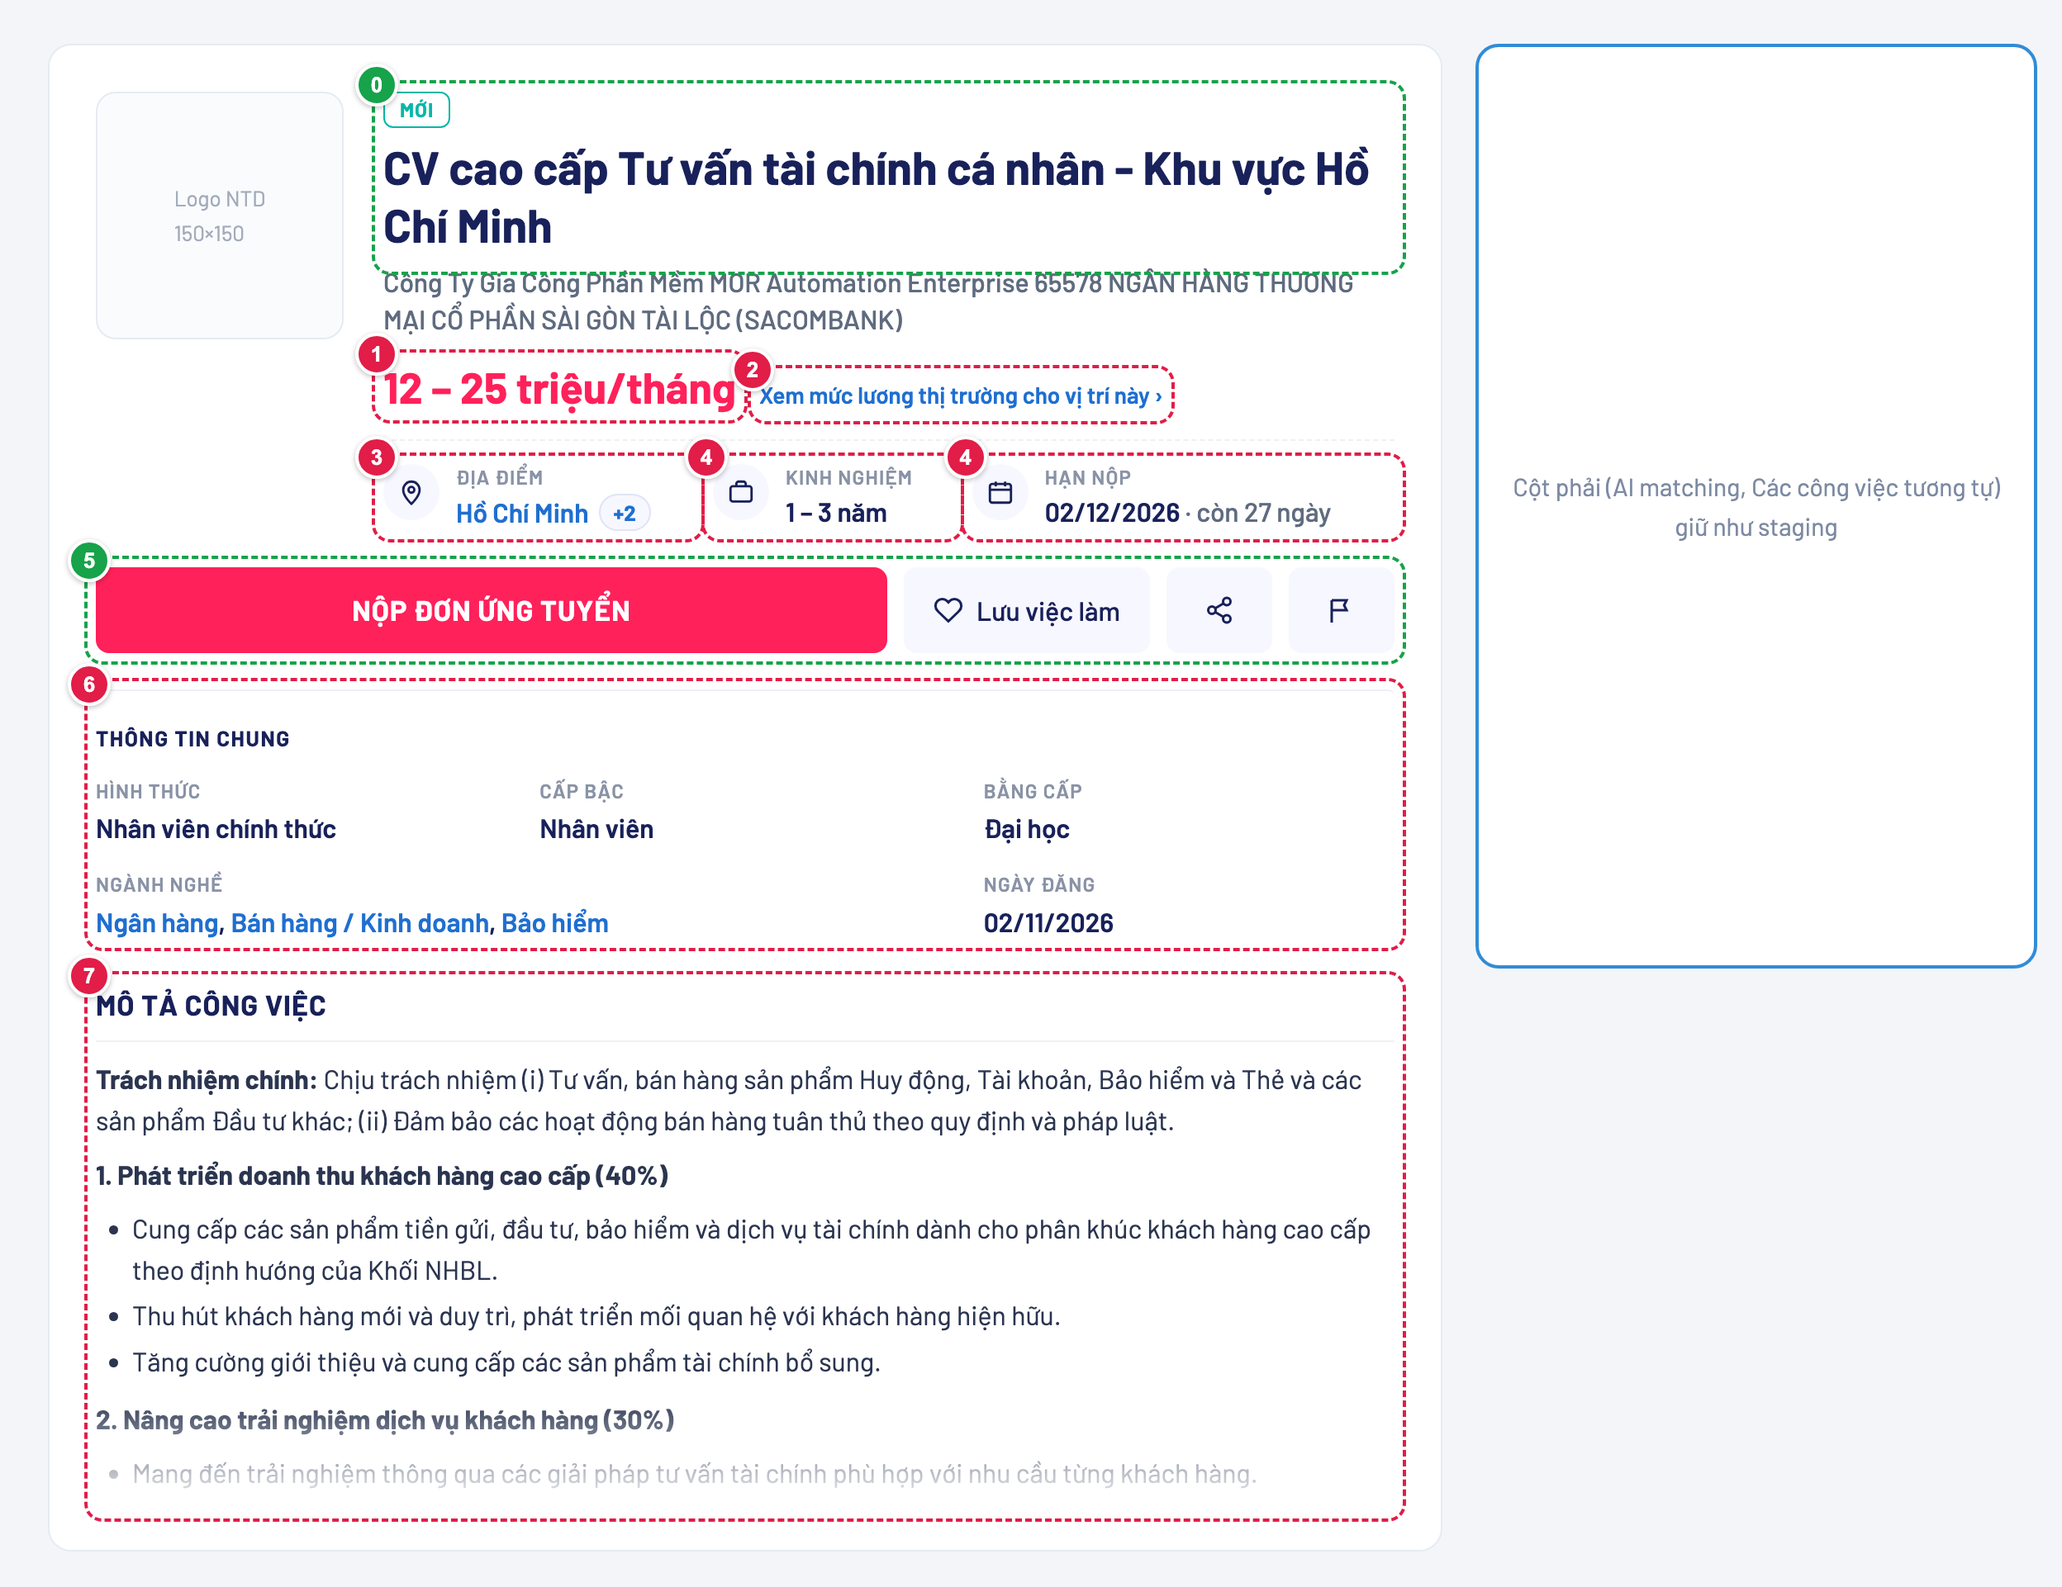
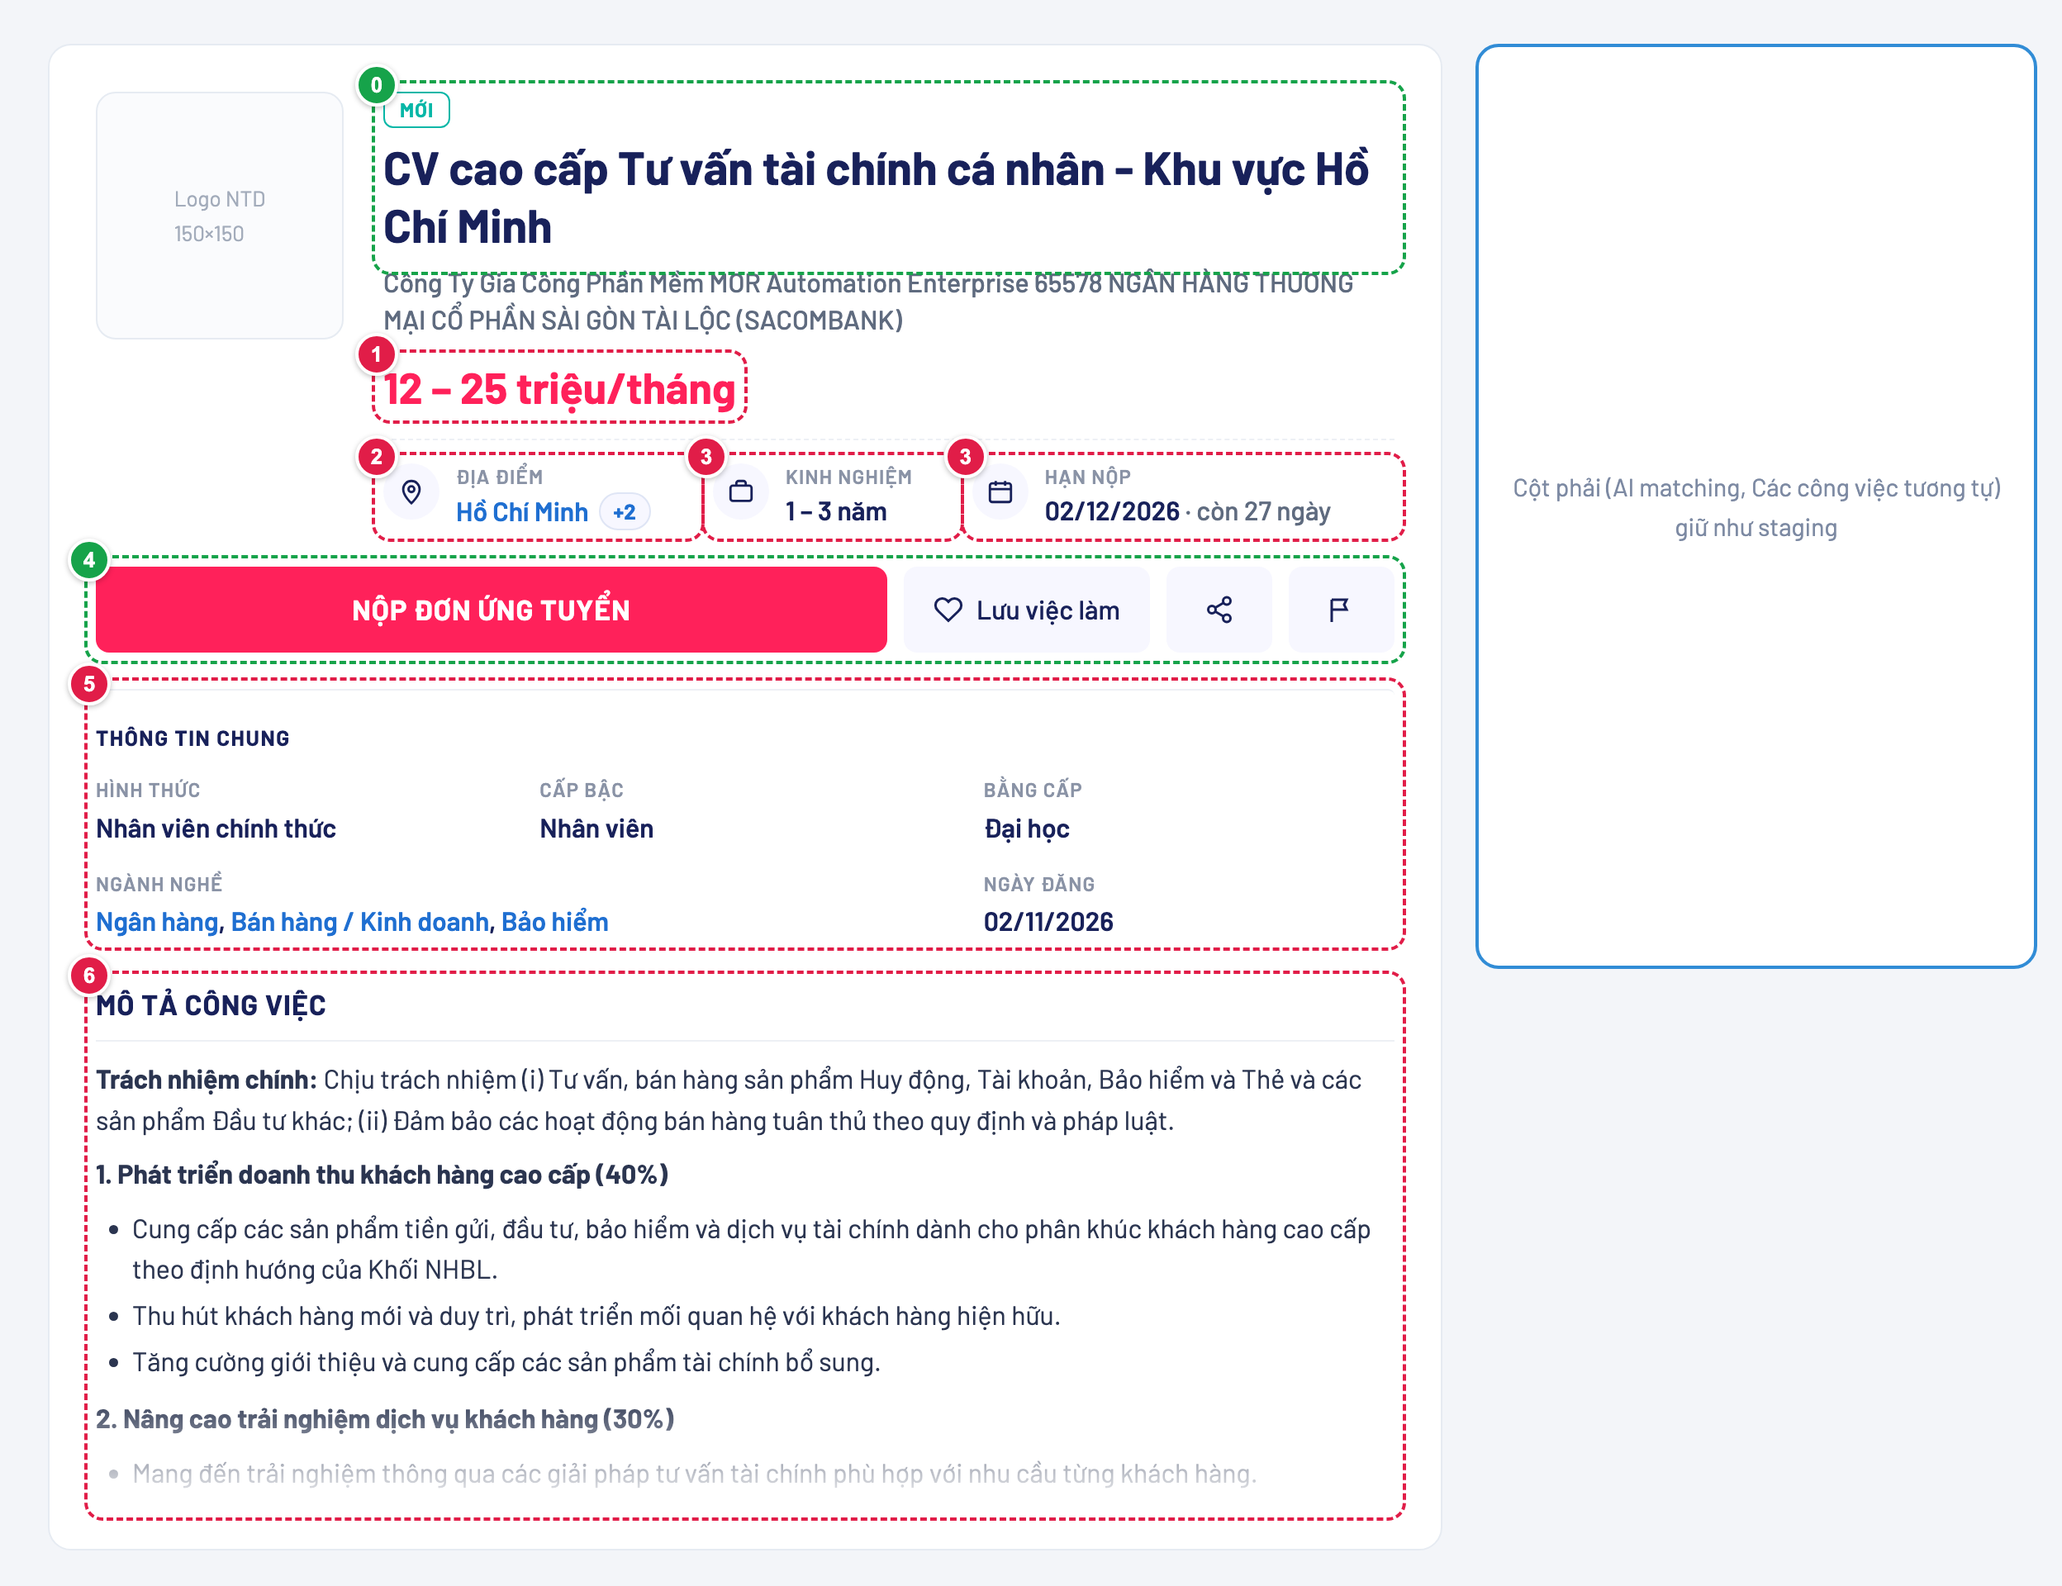
Bỏ link «Xem mức lương thị trường» (v5)
Đánh số lại chú thích 0–6, chụp lại 3 ảnh.

diff --git a/index.html b/index.html
@@ -44,8 +44,6 @@ figcaption{font-size:13px;color:var(--doc-muted);margin-top:6px}
 .salary-line{display:flex;flex-wrap:wrap;align-items:baseline;gap:4px 14px;margin:14px 0 0}
 .job-salary{margin:0;font-size:26px;font-weight:700;color:var(--pink);line-height:1.2}
 .job-salary.neg{color:var(--navy)}
-.job-salary-ref{font-size:14px;font-weight:600;color:var(--link)!important}
-.job-salary-ref:hover{text-decoration:underline!important}
 .job-meta-list{list-style:none;margin:16px 0 0;padding:14px 0 0;border-top:1px dashed var(--line);display:grid;grid-template-columns:1.1fr .85fr 1.5fr;gap:12px}
 .job-meta-list li{display:flex;gap:10px;align-items:flex-start;min-width:0}
 .ico{flex:0 0 34px;height:34px;border-radius:50%;background:var(--blue-bg);display:flex;align-items:center;justify-content:center;color:var(--navy)}
@@ -114,7 +112,6 @@ dl.info-grid dd a{color:var(--link)!important}
 .phone h1.title{font-size:21px;margin:10px 0 0}
 .phone .job-salary{font-size:23px}
 .phone .salary-line{margin-top:8px;gap:2px 10px}
-.phone .job-salary-ref{font-size:13px}
 .phone .job-meta-list{grid-template-columns:1fr;gap:0;margin-top:12px;padding-top:4px}
 .phone .job-meta-list li{justify-content:space-between;align-items:center;padding:8px 0;border-bottom:1px solid var(--line)}
 .phone .job-meta-list li .ico{display:none}
@@ -185,19 +182,18 @@ footer{margin-top:40px;padding-top:14px;border-top:1px solid var(--doc-line);fon
 
         <div class="salary-line">
           <p class="job-salary ann"><span class="n">1</span>12 – 25 triệu/tháng</p>
-          <a class="job-salary-ref ann" href="#"><span class="n">2</span>Xem mức lương thị trường cho vị trí này ›</a>
         </div>
 
         <ul class="job-meta-list">
-          <li class="ann"><span class="n">3</span>
+          <li class="ann"><span class="n">2</span>
             <span class="ico" aria-hidden="true"><svg viewBox="0 0 24 24" fill="none" stroke="currentColor" stroke-width="2"><path d="M12 22s7-6.2 7-12a7 7 0 1 0-14 0c0 5.8 7 12 7 12z"/><circle cx="12" cy="10" r="2.5"/></svg></span>
             <span><span class="ml">Địa điểm</span><span class="mv"><a href="#">Hồ Chí Minh</a><span class="more">+2</span></span></span>
           </li>
-          <li class="ann"><span class="n">4</span>
+          <li class="ann"><span class="n">3</span>
             <span class="ico" aria-hidden="true"><svg viewBox="0 0 24 24" fill="none" stroke="currentColor" stroke-width="2"><rect x="3" y="7" width="18" height="13" rx="2"/><path d="M8 7V5a2 2 0 0 1 2-2h4a2 2 0 0 1 2 2v2"/></svg></span>
             <span><span class="ml">Kinh nghiệm</span><span class="mv">1 – 3 năm</span></span>
           </li>
-          <li class="ann"><span class="n">4</span>
+          <li class="ann"><span class="n">3</span>
             <span class="ico" aria-hidden="true"><svg viewBox="0 0 24 24" fill="none" stroke="currentColor" stroke-width="2"><rect x="3" y="5" width="18" height="16" rx="2"/><path d="M16 3v4M8 3v4M3 10h18"/></svg></span>
             <span><span class="ml">Hạn nộp</span><span class="mv"><time datetime="2026-12-02">02/12/2026</time> <span class="left">· còn 27 ngày</span></span></span>
           </li>
@@ -205,14 +201,14 @@ footer{margin-top:40px;padding-top:14px;border-top:1px solid var(--doc-line);fon
       </div>
     </div>
 
-    <div class="job-actions-row ann keep"><span class="n">5</span>
+    <div class="job-actions-row ann keep"><span class="n">4</span>
       <a class="apply-now-btn" href="#">Nộp đơn ứng tuyển</a>
       <span class="tool"><svg viewBox="0 0 24 24" fill="none" stroke="currentColor" stroke-width="2"><path d="M20.8 4.6a5.5 5.5 0 0 0-7.8 0L12 5.7l-1-1.1a5.5 5.5 0 0 0-7.8 7.8l1 1.1L12 21l7.8-7.5 1-1.1a5.5 5.5 0 0 0 0-7.8z"/></svg>Lưu việc làm</span>
       <span class="tool sq" aria-label="Chia sẻ"><svg viewBox="0 0 24 24" fill="none" stroke="currentColor" stroke-width="2"><circle cx="18" cy="5" r="3"/><circle cx="6" cy="12" r="3"/><circle cx="18" cy="19" r="3"/><path d="M8.6 13.5l6.8 4M15.4 6.5l-6.8 4"/></svg></span>
       <span class="tool sq" aria-label="Báo cáo tin"><svg viewBox="0 0 24 24" fill="none" stroke="currentColor" stroke-width="2"><path d="M4 22V4M4 4h12l-2 4 2 4H4"/></svg></span>
     </div>
 
-    <div class="info ann"><span class="n">6</span>
+    <div class="info ann"><span class="n">5</span>
       <p class="info-title">Thông tin chung</p>
       <dl class="info-grid">
         <div><dt>Hình thức</dt><dd>Nhân viên chính thức</dd></div>
@@ -223,7 +219,7 @@ footer{margin-top:40px;padding-top:14px;border-top:1px solid var(--doc-line);fon
       </dl>
     </div>
 
-    <section class="desc ann"><span class="n">7</span>
+    <section class="desc ann"><span class="n">6</span>
       <h2>Mô tả công việc</h2>
       <div class="fade">
         <p><b>Trách nhiệm chính:</b> Chịu trách nhiệm (i) Tư vấn, bán hàng sản phẩm Huy động, Tài khoản, Bảo hiểm và Thẻ và các sản phẩm Đầu tư khác; (ii) Đảm bảo các hoạt động bán hàng tuân thủ theo quy định và pháp luật.</p>
@@ -245,12 +241,11 @@ footer{margin-top:40px;padding-top:14px;border-top:1px solid var(--doc-line);fon
 <ul class="notes">
   <li><span class="d k">0</span><span><b>Giữ:</b> nhãn «Mới» nằm ngoài thẻ <code>&lt;h1&gt;</code>; H1 là chữ lớn nhất khối (28px/700).</span></li>
   <li><span class="d">1</span><span><b>Lương</b> tách khỏi tag, thành dòng riêng 26px/700 màu <code>#ff215a</code>, không nền chip, bỏ chữ «Lương:», thêm kỳ trả «/tháng».</span></li>
-  <li><span class="d">2</span><span><b>Link lương thị trường</b> cùng dòng với lương, trỏ trang VietnamSalary của chức danh.</span></li>
-  <li><span class="d">3</span><span><b>Địa điểm</b> ghi tỉnh/thành, mỗi tỉnh là link sang trang việc làm của tỉnh. Hiện 1 tỉnh + «+2», bấm mở danh sách (mục 3).</span></li>
-  <li><span class="d">4</span><span><b>Kinh nghiệm và Hạn nộp</b> chuyển từ lưới dưới nút lên cạnh Địa điểm. Hạn nộp thêm «còn N ngày».</span></li>
-  <li><span class="d k">5</span><span><b>Giữ</b> hàng nút như staging. Hai nút chỉ có icon thêm <code>aria-label</code> «Chia sẻ», «Báo cáo tin».</span></li>
-  <li><span class="d">6</span><span><b>Lưới «Thông tin chung»</b>: còn Hình thức, Cấp bậc, Bằng cấp, Ngành nghề, Ngày đăng. Ngành nghề dùng màu link. «Ngày cập nhật» đổi thành «Ngày đăng» (khớp <code>datePosted</code>).</span></li>
-  <li><span class="d">7</span><span><b>Mô tả công việc</b> giữ xuống dòng, đánh số, gạch đầu dòng như nhà tuyển dụng nhập.</span></li>
+  <li><span class="d">2</span><span><b>Địa điểm</b> ghi tỉnh/thành, mỗi tỉnh là link sang trang việc làm của tỉnh. Hiện 1 tỉnh + «+2», bấm mở danh sách (mục 3).</span></li>
+  <li><span class="d">3</span><span><b>Kinh nghiệm và Hạn nộp</b> chuyển từ lưới dưới nút lên cạnh Địa điểm. Hạn nộp thêm «còn N ngày».</span></li>
+  <li><span class="d k">4</span><span><b>Giữ</b> hàng nút như staging. Hai nút chỉ có icon thêm <code>aria-label</code> «Chia sẻ», «Báo cáo tin».</span></li>
+  <li><span class="d">5</span><span><b>Lưới «Thông tin chung»</b>: còn Hình thức, Cấp bậc, Bằng cấp, Ngành nghề, Ngày đăng. Ngành nghề dùng màu link. «Ngày cập nhật» đổi thành «Ngày đăng» (khớp <code>datePosted</code>).</span></li>
+  <li><span class="d">6</span><span><b>Mô tả công việc</b> giữ xuống dòng, đánh số, gạch đầu dòng như nhà tuyển dụng nhập.</span></li>
 </ul>
 
 <h2 class="doc">3. Hai trạng thái cần có</h2>
@@ -259,7 +254,7 @@ footer{margin-top:40px;padding-top:14px;border-top:1px solid var(--doc-line);fon
     <h3>Tin không có lương — «Thoả thuận»</h3>
     <div class="card">
       <h1 class="title" style="font-size:24px">CV cao cấp Tư vấn tài chính cá nhân - Khu vực Hồ Chí Minh</h1>
-      <div class="salary-line"><p class="job-salary neg">Thoả thuận</p><a class="job-salary-ref" href="#">Xem mức lương thị trường cho vị trí này ›</a></div>
+      <div class="salary-line"><p class="job-salary neg">Thoả thuận</p></div>
     </div>
     <p class="note">Dòng lương giữ vị trí, chữ màu navy. JSON-LD bỏ hẳn <code>baseSalary</code> (không để chữ, <code>null</code> hay chuỗi rỗng).</p>
   </div>
@@ -284,12 +279,11 @@ footer{margin-top:40px;padding-top:14px;border-top:1px solid var(--doc-line);fon
 <thead><tr><th>#</th><th>Phần tử</th><th>Staging hiện tại</th><th>Thay đổi</th><th>Thông số</th></tr></thead>
 <tbody>
 <tr><td>1</td><td>Lương</td><td><code>span.meta-salary</code> (tag trong <code>.job-meta-row</code>), chữ «Lương: 12 - 25 Triệu VND»</td><td>Tách thành <code>&lt;p class="job-salary"&gt;</code> ngay dưới tên công ty. Giá trị không kèm chữ «Lương:», có kỳ trả.</td><td>26px, weight 700, <code>#ff215a</code>, line-height 1.2, cách tên công ty 14px. Tin «Thoả thuận»: màu <code>#18215a</code>.</td></tr>
-<tr><td>2</td><td>Link lương thị trường</td><td>Chưa có</td><td><code>&lt;a class="job-salary-ref"&gt;</code> sang trang VietnamSalary của chức danh</td><td>14px, weight 600, <code>#1f6fd1</code>, cùng hàng với lương (cách 14px), xuống dòng khi hẹp.</td></tr>
-<tr><td>3</td><td>Địa điểm</td><td><code>span.meta-location-text</code> «Hồ Chí Minh | Đồng Bằng Sông Cửu Long | Đồng Bằng Sông Hồng», không link</td><td>Mục Địa điểm trong <code>ul.job-meta-list</code>; mỗi tỉnh là <code>&lt;a&gt;</code> tới <code>/viec-lam/&lt;tinh&gt;-l&lt;id&gt;-vi.html</code>; hiện 1 tỉnh + nút «+N» mở danh sách (các link vẫn có sẵn trong HTML).</td><td>Nhãn 12px/600 in hoa <code>#8a93a6</code>; giá trị 16px/600; link <code>#1f6fd1</code>. Icon tròn 34px nền <code>#f7f7ff</code>, <code>aria-hidden="true"</code>.</td></tr>
-<tr><td>4</td><td>Kinh nghiệm · Hạn nộp</td><td>Trong lưới 6 ô dưới hàng nút</td><td>Chuyển lên <code>ul.job-meta-list</code> cạnh Địa điểm. Hạn nộp dùng <code>&lt;time datetime&gt;</code> + «· còn N ngày».</td><td>Lưới 3 cột (1.1fr 0.85fr 1.5fr), gap 12px, kẻ nét đứt phía trên. «còn N ngày»: <code>#5f6b7f</code>; còn ≤ 3 ngày: <code>#ea580c</code>.</td></tr>
-<tr><td>5</td><td>Hàng nút</td><td><code>.job-actions-row</code></td><td>Giữ. Nút chỉ có icon thêm <code>aria-label</code>.</td><td>Cao 52px, cách khối trên 22px.</td></tr>
-<tr><td>6</td><td>Lưới thông tin</td><td>6 ô: Hình thức, Kinh nghiệm, Cấp bậc, Ngành nghề, Ngày cập nhật, Hết hạn nộp</td><td>Tiêu đề nhỏ «Thông tin chung» (thẻ <code>&lt;p&gt;</code>, không dùng chữ «Mô tả công việc»). Còn: Hình thức, Cấp bậc, Bằng cấp, Ngành nghề, Ngày đăng. Dùng <code>&lt;dl&gt;</code>.</td><td>3 cột; Ngành nghề chiếm 2 cột, link màu <code>#1f6fd1</code>. Ngày đăng = ngày đăng gốc, khớp <code>datePosted</code>.</td></tr>
-<tr><td>7</td><td>Mô tả công việc</td><td>1 thẻ <code>&lt;p&gt;</code>, dồn một đoạn (tin test)</td><td>Render HTML nhà tuyển dụng nhập (đã lọc): <code>&lt;p&gt;</code>, <code>&lt;ul&gt;</code>, <code>&lt;ol&gt;</code>, <code>&lt;li&gt;</code>, <code>&lt;b&gt;</code>.</td><td>16px, line-height 1.55. Test bằng tin có danh sách trước khi duyệt.</td></tr>
+<tr><td>2</td><td>Địa điểm</td><td><code>span.meta-location-text</code> «Hồ Chí Minh | Đồng Bằng Sông Cửu Long | Đồng Bằng Sông Hồng», không link</td><td>Mục Địa điểm trong <code>ul.job-meta-list</code>; mỗi tỉnh là <code>&lt;a&gt;</code> tới <code>/viec-lam/&lt;tinh&gt;-l&lt;id&gt;-vi.html</code>; hiện 1 tỉnh + nút «+N» mở danh sách (các link vẫn có sẵn trong HTML).</td><td>Nhãn 12px/600 in hoa <code>#8a93a6</code>; giá trị 16px/600; link <code>#1f6fd1</code>. Icon tròn 34px nền <code>#f7f7ff</code>, <code>aria-hidden="true"</code>.</td></tr>
+<tr><td>3</td><td>Kinh nghiệm · Hạn nộp</td><td>Trong lưới 6 ô dưới hàng nút</td><td>Chuyển lên <code>ul.job-meta-list</code> cạnh Địa điểm. Hạn nộp dùng <code>&lt;time datetime&gt;</code> + «· còn N ngày».</td><td>Lưới 3 cột (1.1fr 0.85fr 1.5fr), gap 12px, kẻ nét đứt phía trên. «còn N ngày»: <code>#5f6b7f</code>; còn ≤ 3 ngày: <code>#ea580c</code>.</td></tr>
+<tr><td>4</td><td>Hàng nút</td><td><code>.job-actions-row</code></td><td>Giữ. Nút chỉ có icon thêm <code>aria-label</code>.</td><td>Cao 52px, cách khối trên 22px.</td></tr>
+<tr><td>5</td><td>Lưới thông tin</td><td>6 ô: Hình thức, Kinh nghiệm, Cấp bậc, Ngành nghề, Ngày cập nhật, Hết hạn nộp</td><td>Tiêu đề nhỏ «Thông tin chung» (thẻ <code>&lt;p&gt;</code>, không dùng chữ «Mô tả công việc»). Còn: Hình thức, Cấp bậc, Bằng cấp, Ngành nghề, Ngày đăng. Dùng <code>&lt;dl&gt;</code>.</td><td>3 cột; Ngành nghề chiếm 2 cột, link màu <code>#1f6fd1</code>. Ngày đăng = ngày đăng gốc, khớp <code>datePosted</code>.</td></tr>
+<tr><td>6</td><td>Mô tả công việc</td><td>1 thẻ <code>&lt;p&gt;</code>, dồn một đoạn (tin test)</td><td>Render HTML nhà tuyển dụng nhập (đã lọc): <code>&lt;p&gt;</code>, <code>&lt;ul&gt;</code>, <code>&lt;ol&gt;</code>, <code>&lt;li&gt;</code>, <code>&lt;b&gt;</code>.</td><td>16px, line-height 1.55. Test bằng tin có danh sách trước khi duyệt.</td></tr>
 </tbody></table></div>
 
 
